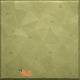
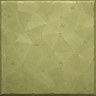
fix(board): remove light tile artifact and tile gaps

Changed region(s): [[0.225, 0.85, 0.4, 0.95]]

diff --git a/v4-b/v4-b-board-0.3.css b/v4-b/v4-b-board-0.3.css
@@ -9,19 +9,18 @@
 }
 
 .tile{
-  --tile-texture:url('assets/board_tile_light.webp?v=2');
+  --tile-texture:url('assets/board_tile_light.webp?v=3');
   --tile-overlay:linear-gradient(rgba(255,255,255,0),rgba(255,255,255,0));
   background-color:var(--board-sage-light);
   background-image:var(--tile-overlay),var(--tile-texture)!important;
   background-size:100% 100%,100% 100%;
   background-position:center,center;
   background-repeat:no-repeat;
-  border-right-color:transparent;
-  border-bottom-color:transparent;
+  border:0!important;
 }
 
 .tile:nth-child(even){
-  --tile-texture:url('assets/board_tile_dark.webp?v=2');
+  --tile-texture:url('assets/board_tile_dark.webp?v=3');
   background-color:var(--board-sage-dark);
 }
 
